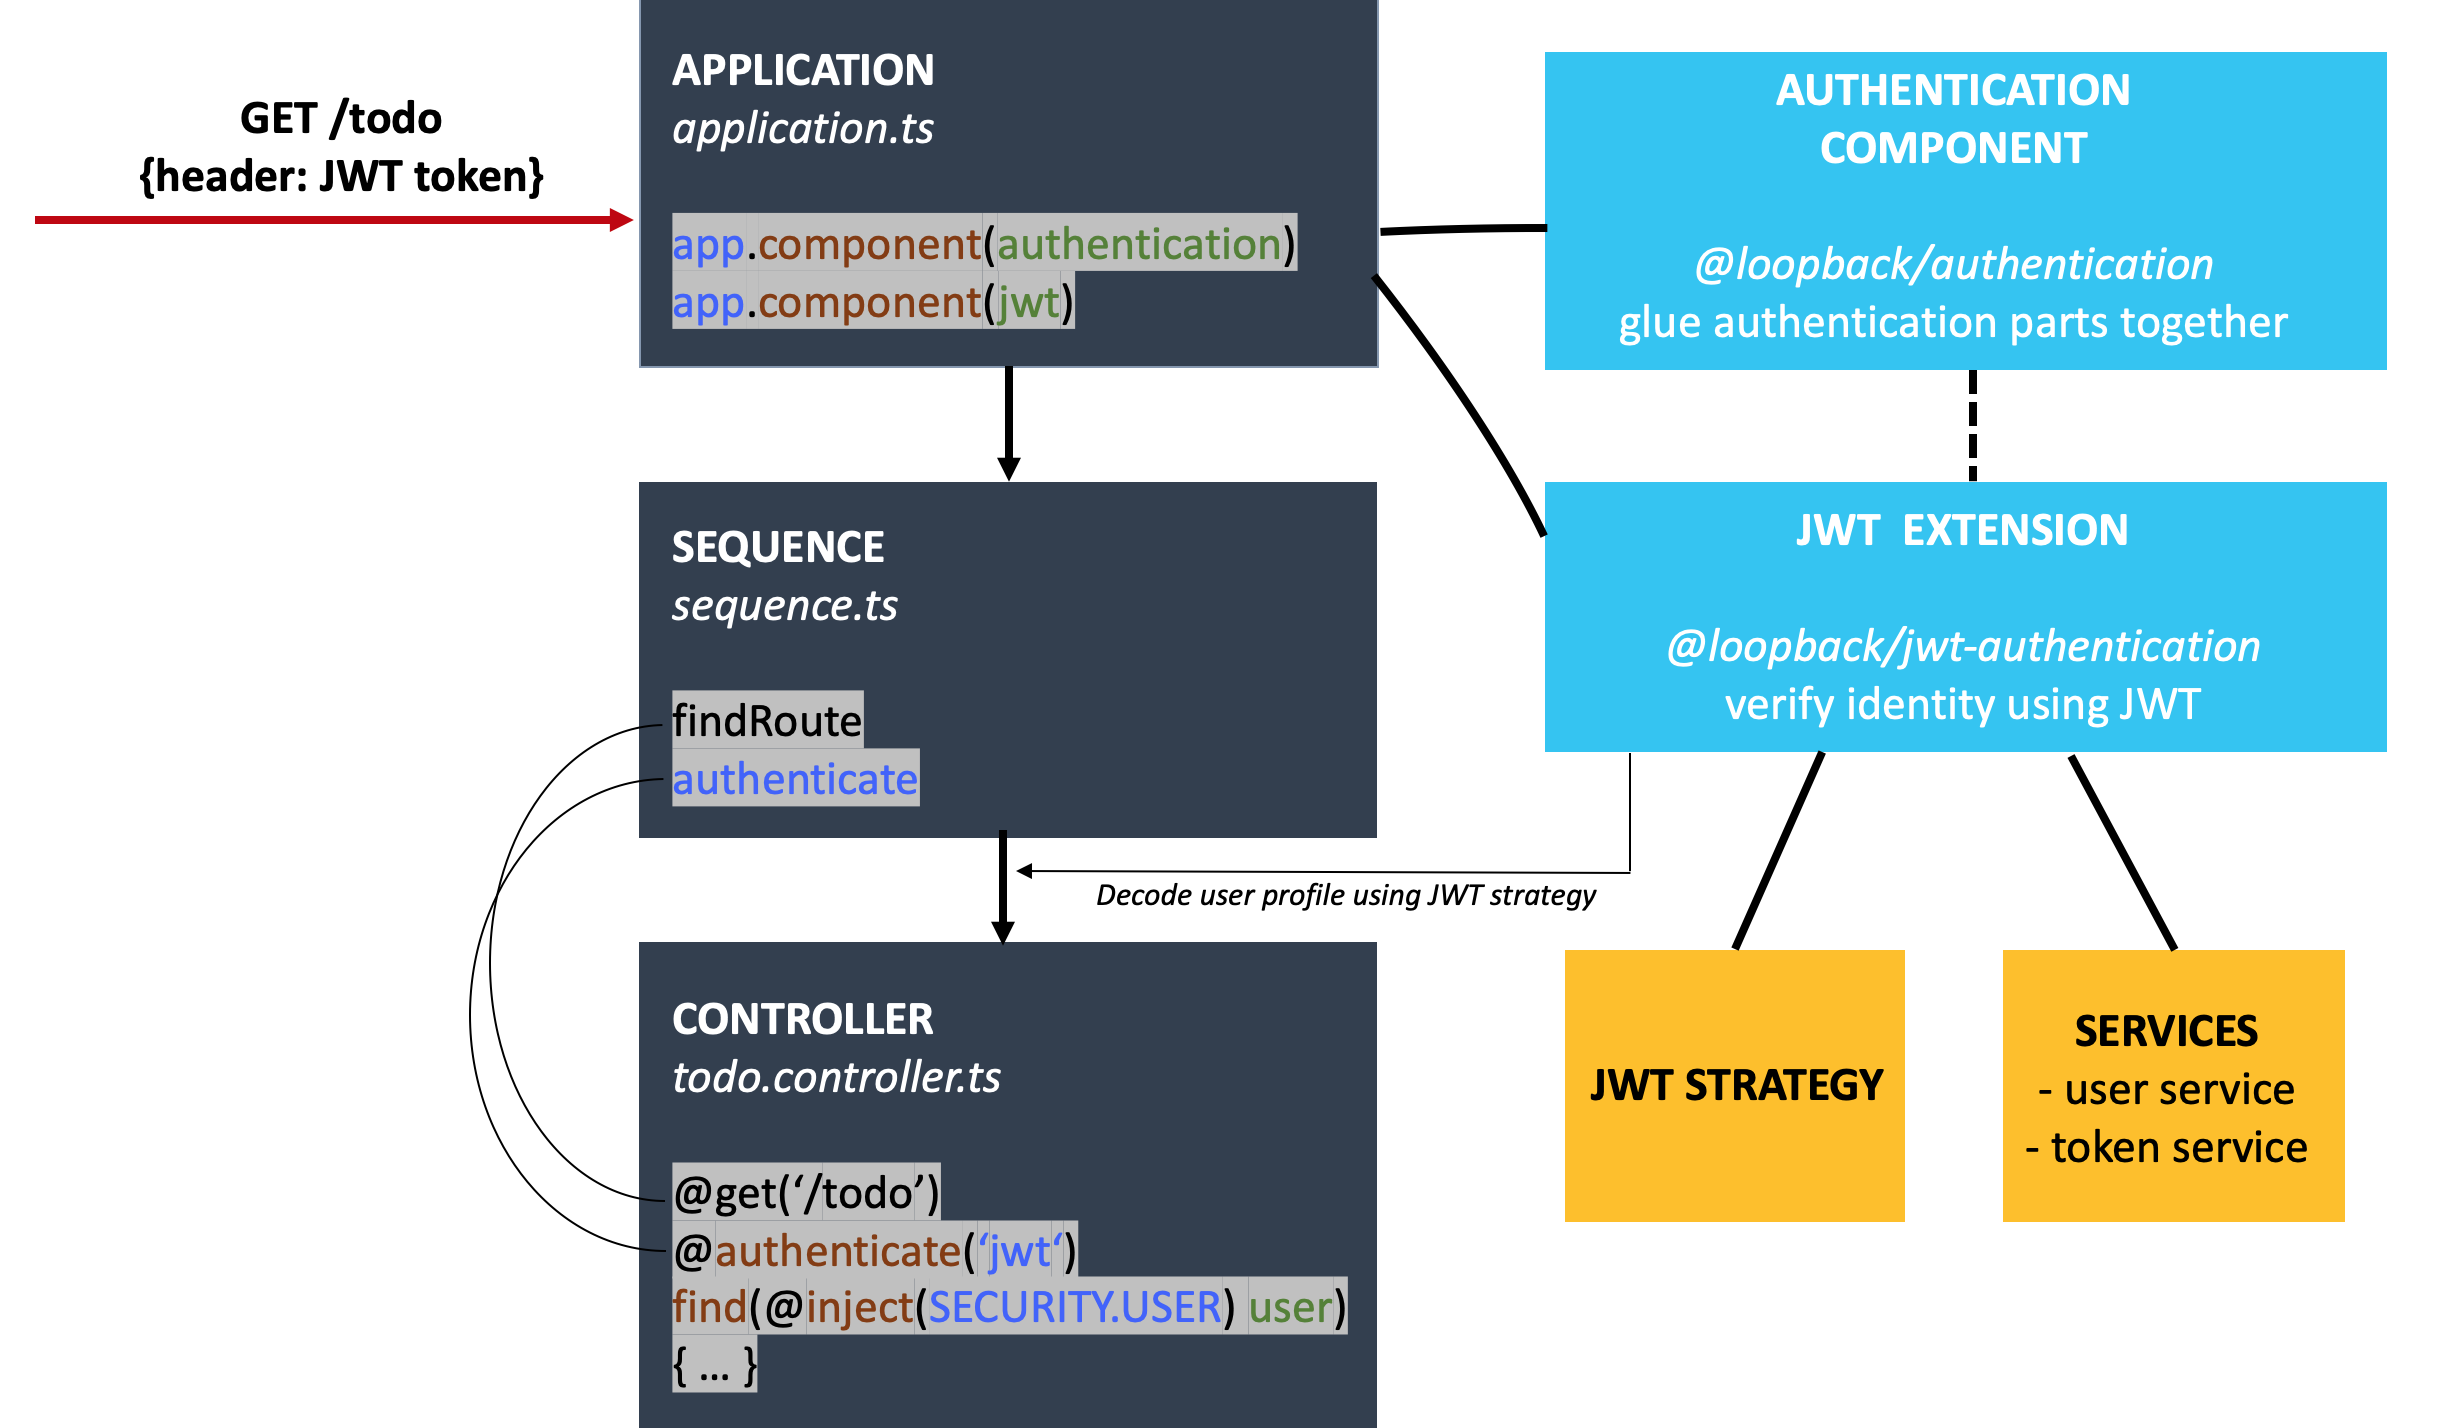
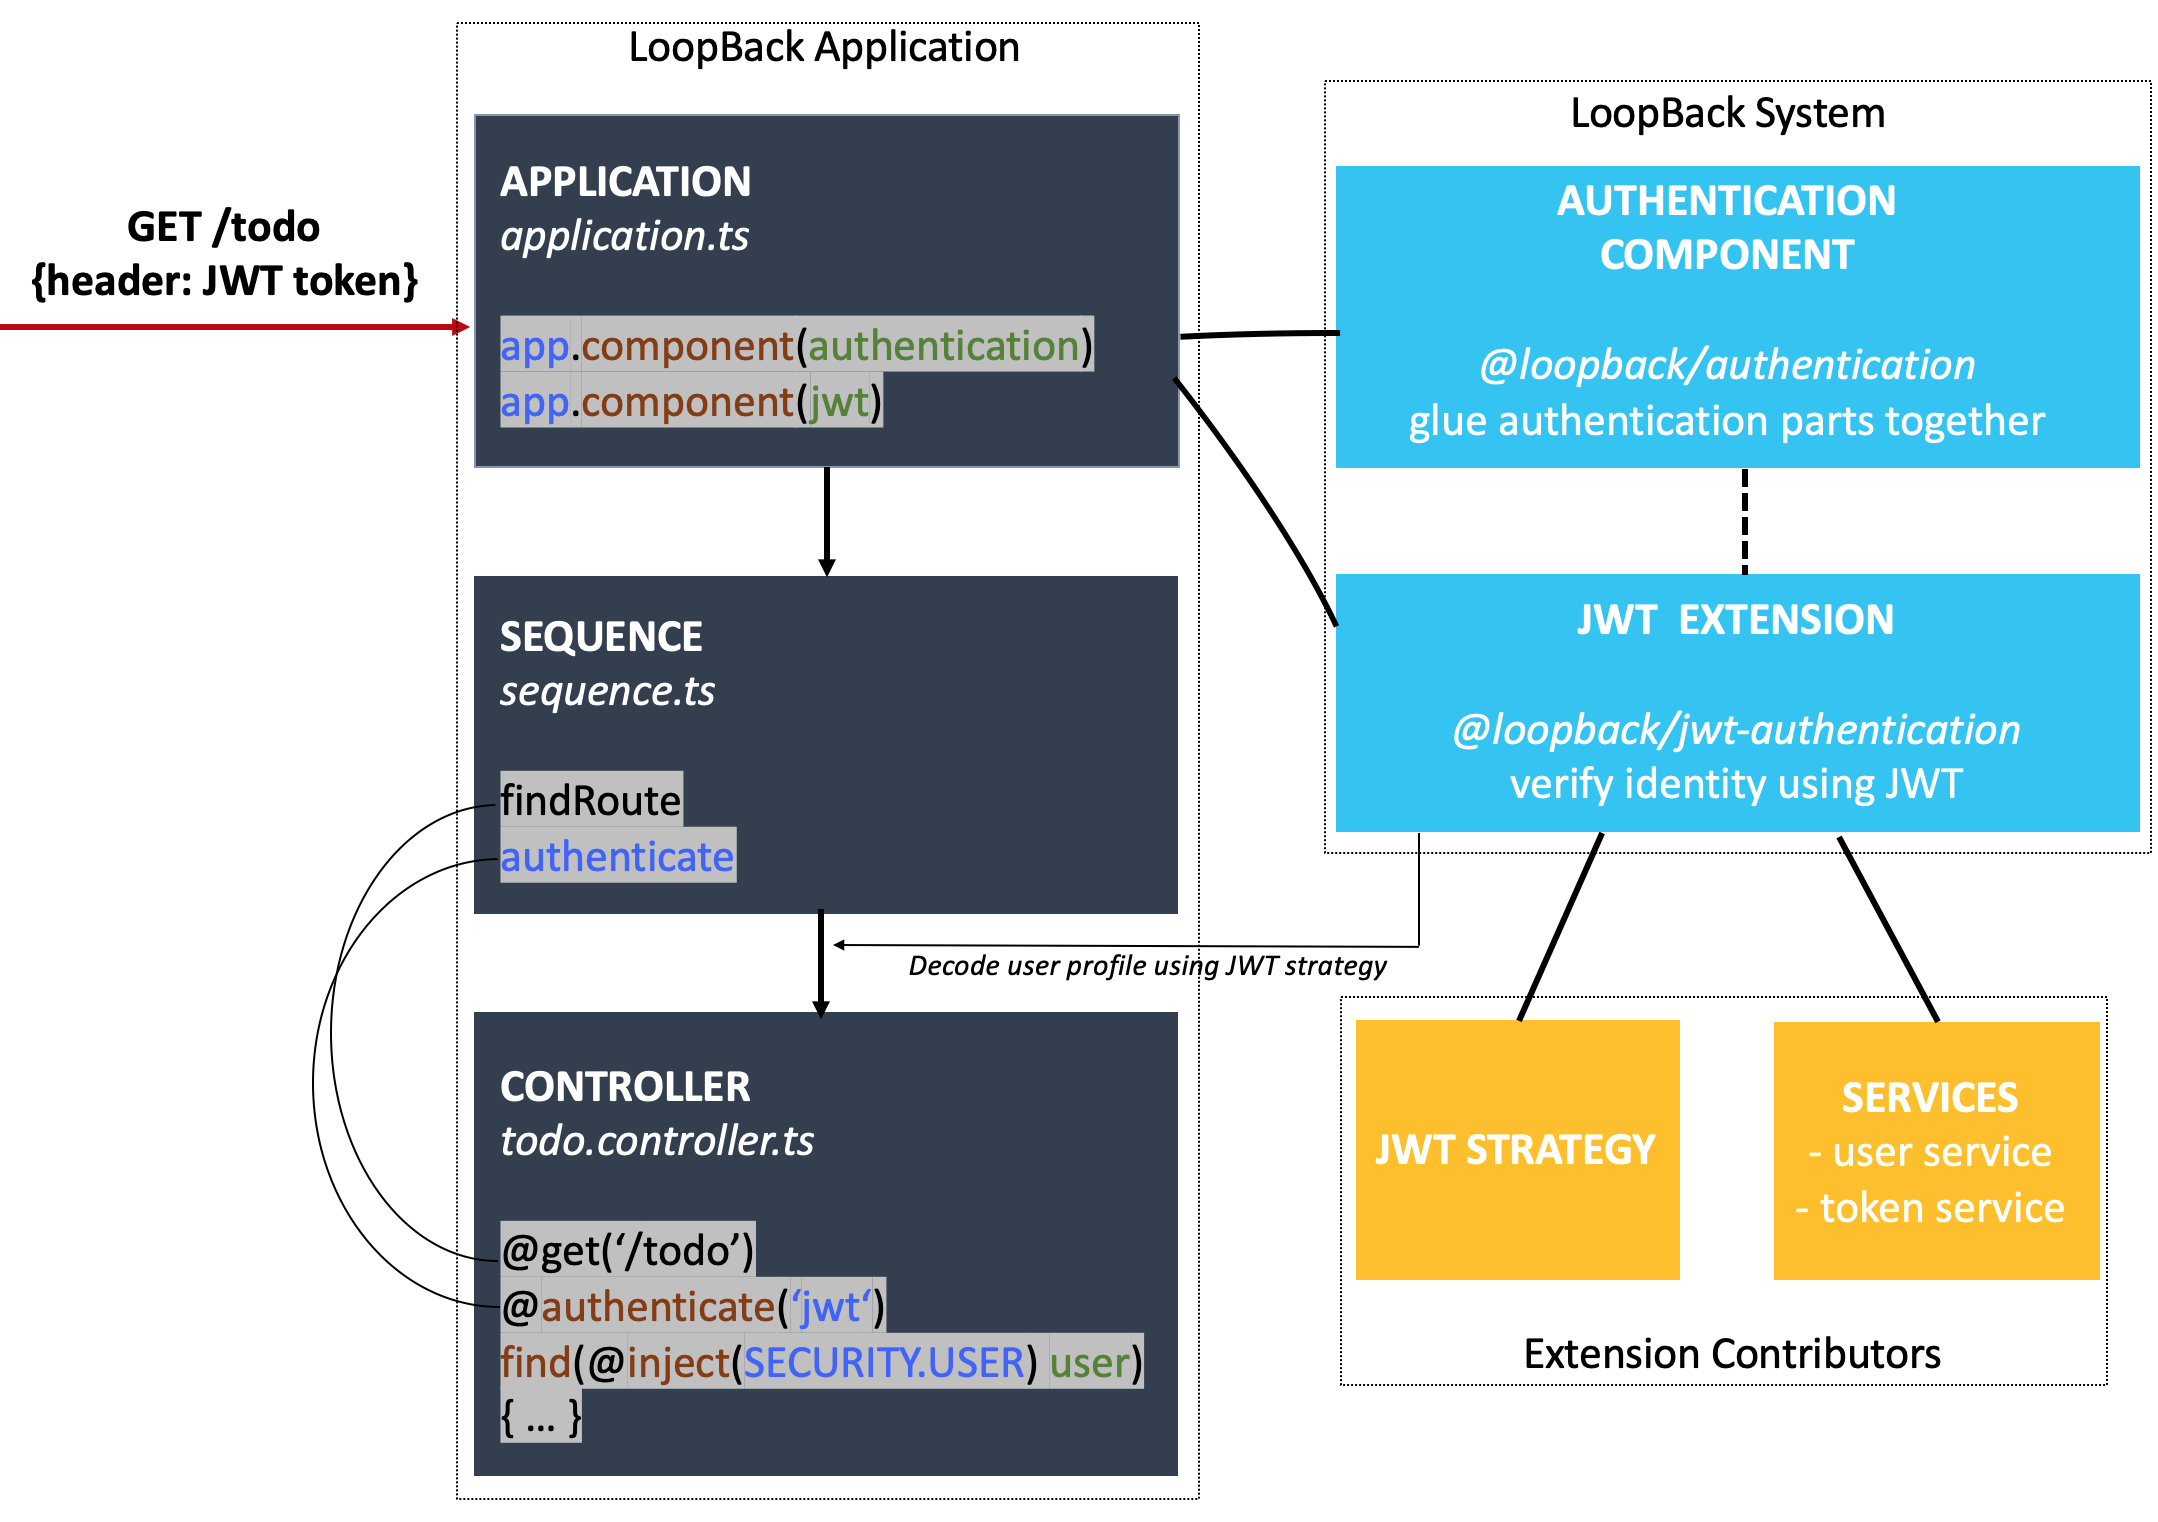
fixup!: apply feedback

Changed region(s): [[0.0, 0.0, 1.0, 1.0]]

diff --git a/docs/site/Authentication-overview.md b/docs/site/Authentication-overview.md
@@ -23,27 +23,26 @@ protected resource.
 This document gives you an overview of the authentication system provided in
 LoopBack 4.
 
-Let's start with the following scenario: Suppose you want to secure endpoint
-`GET /todo` using a
-[JWT(JSON web token)](https://github.com/auth0/node-jsonwebtoken#readme)
-strategy. The diagram below shows how such authentication process works with
-LoopBack's authentication mechanism.
+Let's start with the following scenario: Suppose you want to limit access to
+todo items to the owner. The diagram below shows how such authentication process
+works with LoopBack's authentication mechanism.
 
 ![authentication_overview_request_handle_flow](./imgs/authentication/authentication-overview.png)
 
-As illustrated above, an access token in Authorization header in making request
-to the route is handled by the REST server's sequence, which invokes the
-authentication action to decode the user profile from token so that controllers
-can have the user injected.
+As illustrated above, during the request `GET /todo`, an access token in the
+Authorization header is handled by the REST server's sequence. The
+authentication action is then invoked to decode the user profile from token so
+that controllers can have the user injected.
 
-For implementing this, all you need to add is the code in programming colors:
+To implement this, all you need to add is the code in the highlighted code
+snippet:
 
 - Register the authentication component and JWT extension in your application.
 - Enable the authenticate action in sequence.
 - Decorate the controller endpoint with `@authenticate()` and inject the user
   passed from the authentication layer.
 
-The rest will be handled by our authentication component
+The rest will be handled by the authentication component
 `@loopback/authentication`, which incorporates the authentication mechanism, and
 the JWT extension `@loopback/jwt-authentication`, which helps in implementing
 JWT-based authentication to the system and should be provided by extension
@@ -51,19 +50,21 @@ developers.
 
 The authentication system is highly extensible and pluggable. It's easy to get
 started with. While there are more advanced features to explorer - of which are
-beneficial when you build more complicated and larger scale applications. it
+beneficial when you build more complicated and larger scale applications, it
 requires understanding the mechanics of the system, like how component
 `@loopback/authentication` works. To help you learn the full features gradually,
 we've broken down the documentations into several parts:
 
 - [**JWT todo example**](./tutorials/authentication/Authentication-Tutorial.md):
   A tutorial to get started by applying the JWT authentication in the
-  [todo example](https://loopback.io/doc/en/lb4/todo-tutorial.html). We highly recommend you to get started with this example.
+  [todo example](https://loopback.io/doc/en/lb4/todo-tutorial.html). We highly
+  recommend you to get started with this example.
 - Understand the modules provided out-of-the-box:
   - [**JWT extension**](JWT-authentication-extension.md): A prototype
     implementation of the JWT authentication.
-  - [**Authentication component**](Loopback-component-authentication.md): A deep dive of component `@loopback/authentication`.
+  - [**Authentication component**](Loopback-component-authentication.md): A deep
+    dive of component `@loopback/authentication`.
 - [**Create your own authentication strategy**](Create-custom-authentication-strategy.md):
   Particularly for extension developers.
-- [Use **Express Passport** strategies](Authentication-passport.md):
-  The usage of passport adapter module `@loopback/authentication-passport`.
+- [Use **Express Passport** strategies](Authentication-passport.md): The usage
+  of passport adapter module `@loopback/authentication-passport`.

diff --git a/docs/site/Authentication-component-action.md b/docs/site/Authentication-component-action.md
@@ -152,7 +152,8 @@ means the user was authenticated successfully, and the user profile is added to
 the request context (via the `SecurityBindings.USER` binding); otherwise an
 error is thrown.
 
-Here is an example of a modified sequence which utilizes the `authenticate` action.
+Here is an example of a modified sequence which utilizes the `authenticate`
+action.
 
 ```ts
 export class MyAuthenticatingSequence implements SequenceHandler {
@@ -161,8 +162,8 @@ export class MyAuthenticatingSequence implements SequenceHandler {
     // ------ ADD SNIPPET ---------
     @inject(AuthenticationBindings.AUTH_ACTION)
     protected authenticateRequest: AuthenticateFn,
-    // ------------- END OF SNIPPET -------------
-  ) {}
+  ) // ------------- END OF SNIPPET -------------
+  {}
 
   async handle(context: RequestContext) {
     try {

diff --git a/docs/site/Authentication-component-decorator.md b/docs/site/Authentication-component-decorator.md
@@ -30,8 +30,8 @@ or
 
 The **`strategyName`** is the **unique** name of the authentication strategy.
 
-When the **`options`** object is specified, it must be relevant to that particular
-strategy.
+When the **`options`** object is specified, it must be relevant to that
+particular strategy.
 
 Here is an example of the decorator using a custom authentication strategy named
 **'basic'** without options, for the endpoint `/whoami` in a controller named
@@ -52,8 +52,7 @@ export class WhoAmIController {
     // ------ ADD SNIPPET ---------
     @inject(SecurityBindings.USER)
     private userProfile: UserProfile,
-    // ------------- END OF SNIPPET -------------
-  )
+  ) // ------------- END OF SNIPPET -------------
   {}
 
   // ------ ADD SNIPPET ---------
